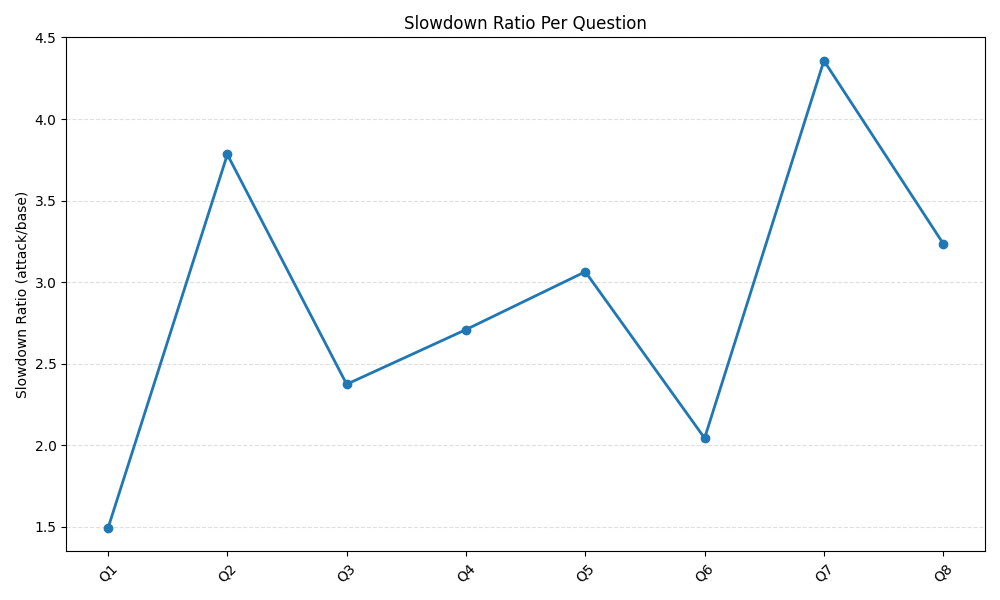
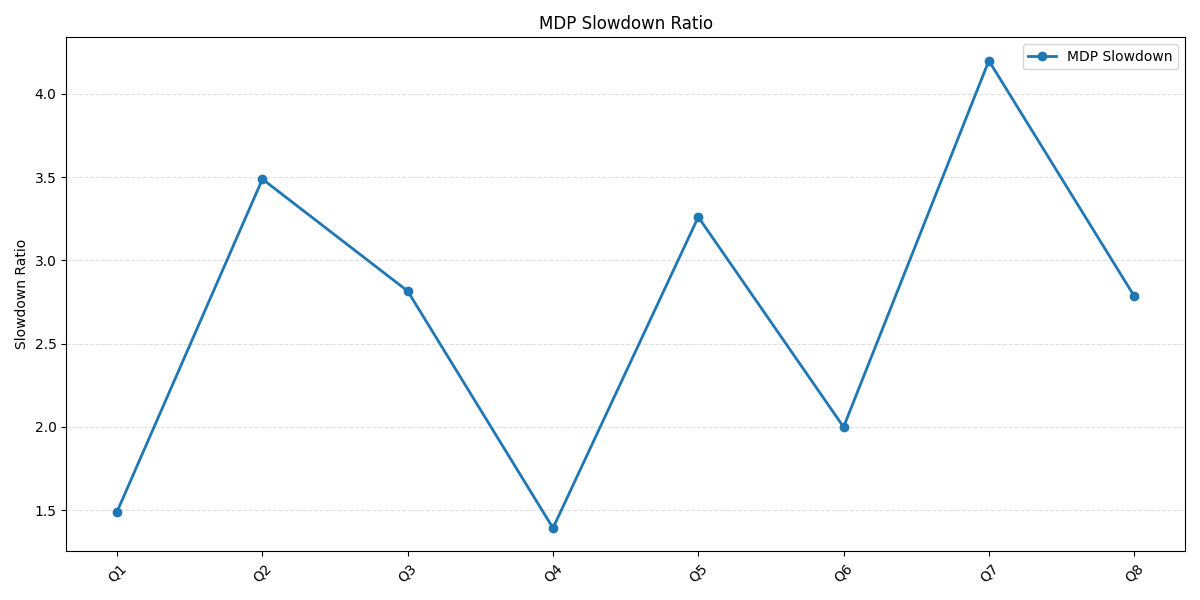
Update plotting functions and directory structure in compute_metrics.py; add new plots for combined metrics and remove obsolete files

diff --git a/assignment-10/compute_metrics.py b/assignment-10/compute_metrics.py
@@ -9,7 +9,7 @@ Unified metrics & plotting for:
 
 Generates a single merged CSV + multiple comparison plots.
 
-Usage: python compute_metrics.py --base artifacts/results_baseline.csv --sudoku artifacts/results_sudoku.csv --mdp artifacts/results_mdp.csv --out artifacts/merged_all_attacks.csv --plots Plots/Combined   
+Usage: python compute_metrics.py --base artifacts/results_baseline.csv --sudoku artifacts/results_sudoku.csv --mdp artifacts/results_mdp.csv --out artifacts/merged_all_attacks.csv --plots Plots  
 """
 
 import argparse
@@ -19,40 +19,92 @@ import matplotlib.pyplot as plt
 import os
 
 
+def make_dir(path):
+    os.makedirs(path, exist_ok=True)
+
+
+def plot_bar_dual(df, col1, col2, labels, ylabel, title, outpath):
+    x = np.arange(len(df))
+    width = 0.35
+    plt.figure(figsize=(12, 6))
+    plt.bar(x - width/2, df[col1], width, label=labels[0])
+    plt.bar(x + width/2, df[col2], width, label=labels[1])
+    plt.xticks(x, [f"Q{i+1}" for i in range(len(df))], rotation=45)
+    plt.ylabel(ylabel)
+    plt.title(title)
+    plt.grid(axis="y", linestyle="--", alpha=0.4)
+    plt.legend()
+    plt.tight_layout()
+    plt.savefig(outpath)
+    plt.close()
+
+
+def plot_line_two(df, col1, col2, labels, ylabel, title, outpath):
+    x = np.arange(len(df))
+    plt.figure(figsize=(12, 6))
+    plt.plot(x, df[col1], marker="o", label=labels[0], linewidth=2)
+    plt.plot(x, df[col2], marker="o", label=labels[1], linewidth=2)
+    plt.xticks(x, [f"Q{i+1}" for i in range(len(df))], rotation=45)
+    plt.ylabel(ylabel)
+    plt.title(title)
+    plt.grid(axis="y", linestyle="--", alpha=0.4)
+    plt.legend()
+    plt.tight_layout()
+    plt.savefig(outpath)
+    plt.close()
+
+
+def plot_single_line(df, col, label, ylabel, title, outpath):
+    x = np.arange(len(df))
+    plt.figure(figsize=(12, 6))
+    plt.plot(x, df[col], marker="o", label=label, linewidth=2)
+    plt.xticks(x, [f"Q{i+1}" for i in range(len(df))], rotation=45)
+    plt.ylabel(ylabel)
+    plt.title(title)
+    plt.grid(axis="y", linestyle="--", alpha=0.4)
+    plt.legend()
+    plt.tight_layout()
+    plt.savefig(outpath)
+    plt.close()
+
+
 def main():
+
     parser = argparse.ArgumentParser()
     parser.add_argument("--base", default="results_baseline.csv")
-    parser.add_argument("--sudoku", default="results_overthink.csv")
+    parser.add_argument("--sudoku", default="results_sudoku.csv")
     parser.add_argument("--mdp", default="results_mdp.csv")
     parser.add_argument("--out", default="merged_all_attacks.csv")
     parser.add_argument("--plots", default="Plots")
     args = parser.parse_args()
 
-    os.makedirs(args.plots, exist_ok=True)
+    make_dir(args.plots)
+    sudoku_dir = os.path.join(args.plots, "Sudoku")
+    mdp_dir = os.path.join(args.plots, "MDP")
+    combined_dir = os.path.join(args.plots, "Combined")
+
+    make_dir(sudoku_dir)
+    make_dir(mdp_dir)
+    make_dir(combined_dir)
 
     # -------------------------
-    # Load all CSVs
+    # Load CSVs
     # -------------------------
     df_base = pd.read_csv(args.base)
     df_sudoku = pd.read_csv(args.sudoku)
     df_mdp = pd.read_csv(args.mdp)
 
-    # Ensure consistent ID indexing
     df_base["id"] = range(len(df_base))
     df_sudoku["id"] = range(len(df_sudoku))
     df_mdp["id"] = range(len(df_mdp))
 
-    # -------------------------
-    # Merge all three datasets
-    # -------------------------
     df = df_base.merge(df_sudoku, on="id", suffixes=("_base", "_sudoku"))
     df = df.merge(df_mdp, on="id")
 
-    # Rename columns for clarity
-    df = df.rename(columns={
+    df.rename(columns={
         "reasoning_tokens": "reasoning_tokens_mdp",
         "cosine_similarity": "cosine_similarity_mdp"
-    })
+    }, inplace=True)
 
     # -------------------------
     # Compute metrics
@@ -63,75 +115,143 @@ def main():
     df["sudoku_slowdown"] = df["reasoning_tokens_sudoku"] / df["reasoning_tokens_base"]
     df["mdp_slowdown"] = df["reasoning_tokens_mdp"] / df["reasoning_tokens_base"]
 
-    df["sudoku_sim_drop"] = df["cosine_similarity_base"] - df["cosine_similarity_sudoku"]
-    df["mdp_sim_drop"] = df["cosine_similarity_base"] - df["cosine_similarity_mdp"]
-
-    # -------------------------
-    # Save merged CSV
-    # -------------------------
     df.to_csv(args.out, index=False)
-    print(f"[OK] Saved merged CSV: {args.out}")
+    print(f"[OK] Saved merged CSV to {args.out}")
 
     # -------------------------
-    # Plotting
+    # GRAPHS — SUDOKU FOLDER
     # -------------------------
 
-    ids = df["id"].tolist()
-    x = np.arange(len(ids))
-    qlabels = [f"Q{i+1}" for i in range(len(df))]
-    width = 0.35
+    # 1 — Baseline vs Sudoku Token Usage
+    plot_line_two(
+        df,
+        "reasoning_tokens_base",
+        "reasoning_tokens_sudoku",
+        ["Baseline", "Sudoku Attack"],
+        "Tokens",
+        "Baseline vs Sudoku — Token Usage",
+        f"{sudoku_dir}/baseline_vs_attack_tokens_line.png"
+    )
 
-    # ---- PLOT 1: Baseline vs Sudoku ----
-    plt.figure(figsize=(11, 6))
-    plt.plot(x, df["reasoning_tokens_base"], marker="o", label="Baseline", linewidth=2)
-    plt.plot(x, df["reasoning_tokens_sudoku"], marker="o", label="Sudoku Attack", linewidth=2)
-    plt.xticks(x, qlabels, rotation=45)
-    plt.ylabel("Tokens")
-    plt.title("Baseline vs Sudoku Attack — Token Usage")
-    plt.grid(axis="y", linestyle="--", alpha=0.4)
-    plt.legend()
-    plt.tight_layout()
-    plt.savefig(f"{args.plots}/baseline_vs_sudoku_line.png")
-    plt.close()
+    # 2 — Sudoku Overhead
+    plot_single_line(
+        df,
+        "sudoku_overhead",
+        "Sudoku Overhead",
+        "Extra Tokens",
+        "Sudoku Token Overhead",
+        f"{sudoku_dir}/token_overhead.png"
+    )
 
-    # ---- PLOT 2: Baseline vs MDP ----
-    plt.figure(figsize=(11, 6))
-    plt.plot(x, df["reasoning_tokens_base"], marker="o", label="Baseline", linewidth=2)
-    plt.plot(x, df["reasoning_tokens_mdp"], marker="o", label="MDP Attack", linewidth=2)
-    plt.xticks(x, qlabels, rotation=45)
-    plt.ylabel("Tokens")
-    plt.title("Baseline vs MDP Attack — Token Usage")
-    plt.grid(axis="y", linestyle="--", alpha=0.4)
-    plt.legend()
-    plt.tight_layout()
-    plt.savefig(f"{args.plots}/baseline_vs_mdp_line.png")
-    plt.close()
+    # 3 — Sudoku Slowdown
+    plot_single_line(
+        df,
+        "sudoku_slowdown",
+        "Sudoku Slowdown",
+        "Slowdown Ratio",
+        "Sudoku Slowdown Ratio",
+        f"{sudoku_dir}/slowdown_ratio.png"
+    )
 
-    # ---- PLOT 3: Token Overhead Comparison ----
-    plt.figure(figsize=(11, 6))
-    plt.bar(x - width/2, df["sudoku_overhead"], width, label="Sudoku Overhead")
-    plt.bar(x + width/2, df["mdp_overhead"], width, label="MDP Overhead")
-    plt.xticks(x, qlabels, rotation=45)
-    plt.ylabel("Extra Tokens")
-    plt.title("Token Overhead: Sudoku vs MDP Attacks")
-    plt.grid(axis="y", linestyle="--", alpha=0.4)
-    plt.legend()
-    plt.tight_layout()
-    plt.savefig(f"{args.plots}/overhead_sudoku_mdp.png")
-    plt.close()
+    # 4 — Sudoku Token Comparison (bar)
+    plot_bar_dual(
+        df,
+        "reasoning_tokens_base",
+        "reasoning_tokens_sudoku",
+        ["Baseline", "Sudoku Attack"],
+        "Tokens",
+        "Token Comparison (Sudoku)",
+        f"{sudoku_dir}/token_usage_comparison.png"
+    )
 
-    # ---- PLOT 4: Slowdown Comparison ----
-    plt.figure(figsize=(11, 6))
-    plt.bar(x - width/2, df["sudoku_slowdown"], width, label="Sudoku Slowdown")
-    plt.bar(x + width/2, df["mdp_slowdown"], width, label="MDP Slowdown")
-    plt.xticks(x, qlabels, rotation=45)
-    plt.ylabel("Slowdown Ratio (Attack / Base)")
-    plt.title("Slowdown: Sudoku vs MDP Attacks")
-    plt.grid(axis="y", linestyle="--", alpha=0.4)
-    plt.legend()
-    plt.tight_layout()
-    plt.savefig(f"{args.plots}/slowdown_sudoku_mdp.png")
-    plt.close()
+    # -------------------------
+    # GRAPHS — MDP FOLDER
+    # -------------------------
+
+    plot_line_two(
+        df,
+        "reasoning_tokens_base",
+        "reasoning_tokens_mdp",
+        ["Baseline", "MDP Attack"],
+        "Tokens",
+        "Baseline vs MDP — Token Usage",
+        f"{mdp_dir}/baseline_vs_attack_tokens_line.png"
+    )
+
+    plot_single_line(
+        df,
+        "mdp_overhead",
+        "MDP Overhead",
+        "Extra Tokens",
+        "MDP Token Overhead",
+        f"{mdp_dir}/token_overhead.png"
+    )
+
+    plot_single_line(
+        df,
+        "mdp_slowdown",
+        "MDP Slowdown",
+        "Slowdown Ratio",
+        "MDP Slowdown Ratio",
+        f"{mdp_dir}/slowdown_ratio.png"
+    )
+
+    plot_bar_dual(
+        df,
+        "reasoning_tokens_base",
+        "reasoning_tokens_mdp",
+        ["Baseline", "MDP Attack"],
+        "Tokens",
+        "Token Comparison (MDP)",
+        f"{mdp_dir}/token_usage_comparison.png"
+    )
+
+    # -------------------------
+    # GRAPHS — COMBINED FOLDER
+    # -------------------------
+
+    # Baseline vs Sudoku and MDP
+    plot_line_two(
+        df,
+        "reasoning_tokens_base",
+        "reasoning_tokens_sudoku",
+        ["Baseline", "Sudoku Attack"],
+        "Tokens",
+        "Baseline vs Sudoku Attack",
+        f"{combined_dir}/baseline_vs_sudoku_line.png"
+    )
+
+    plot_line_two(
+        df,
+        "reasoning_tokens_base",
+        "reasoning_tokens_mdp",
+        ["Baseline", "MDP Attack"],
+        "Tokens",
+        "Baseline vs MDP Attack",
+        f"{combined_dir}/baseline_vs_mdp_line.png"
+    )
+
+    # Sudoku vs MDP — Overhead
+    plot_bar_dual(
+        df,
+        "sudoku_overhead",
+        "mdp_overhead",
+        ["Sudoku Overhead", "MDP Overhead"],
+        "Extra Tokens",
+        "Token Overhead — Sudoku vs MDP",
+        f"{combined_dir}/token_overhead_sudoku_mdp.png"
+    )
+
+    # Sudoku vs MDP — Slowdown
+    plot_bar_dual(
+        df,
+        "sudoku_slowdown",
+        "mdp_slowdown",
+        ["Sudoku Slowdown", "MDP Slowdown"],
+        "Slowdown Ratio",
+        "Slowdown — Sudoku vs MDP",
+        f"{combined_dir}/slowdown_sudoku_mdp.png"
+    )
 
     print(f"\n[OK] All plots saved under: {args.plots}/")
 
